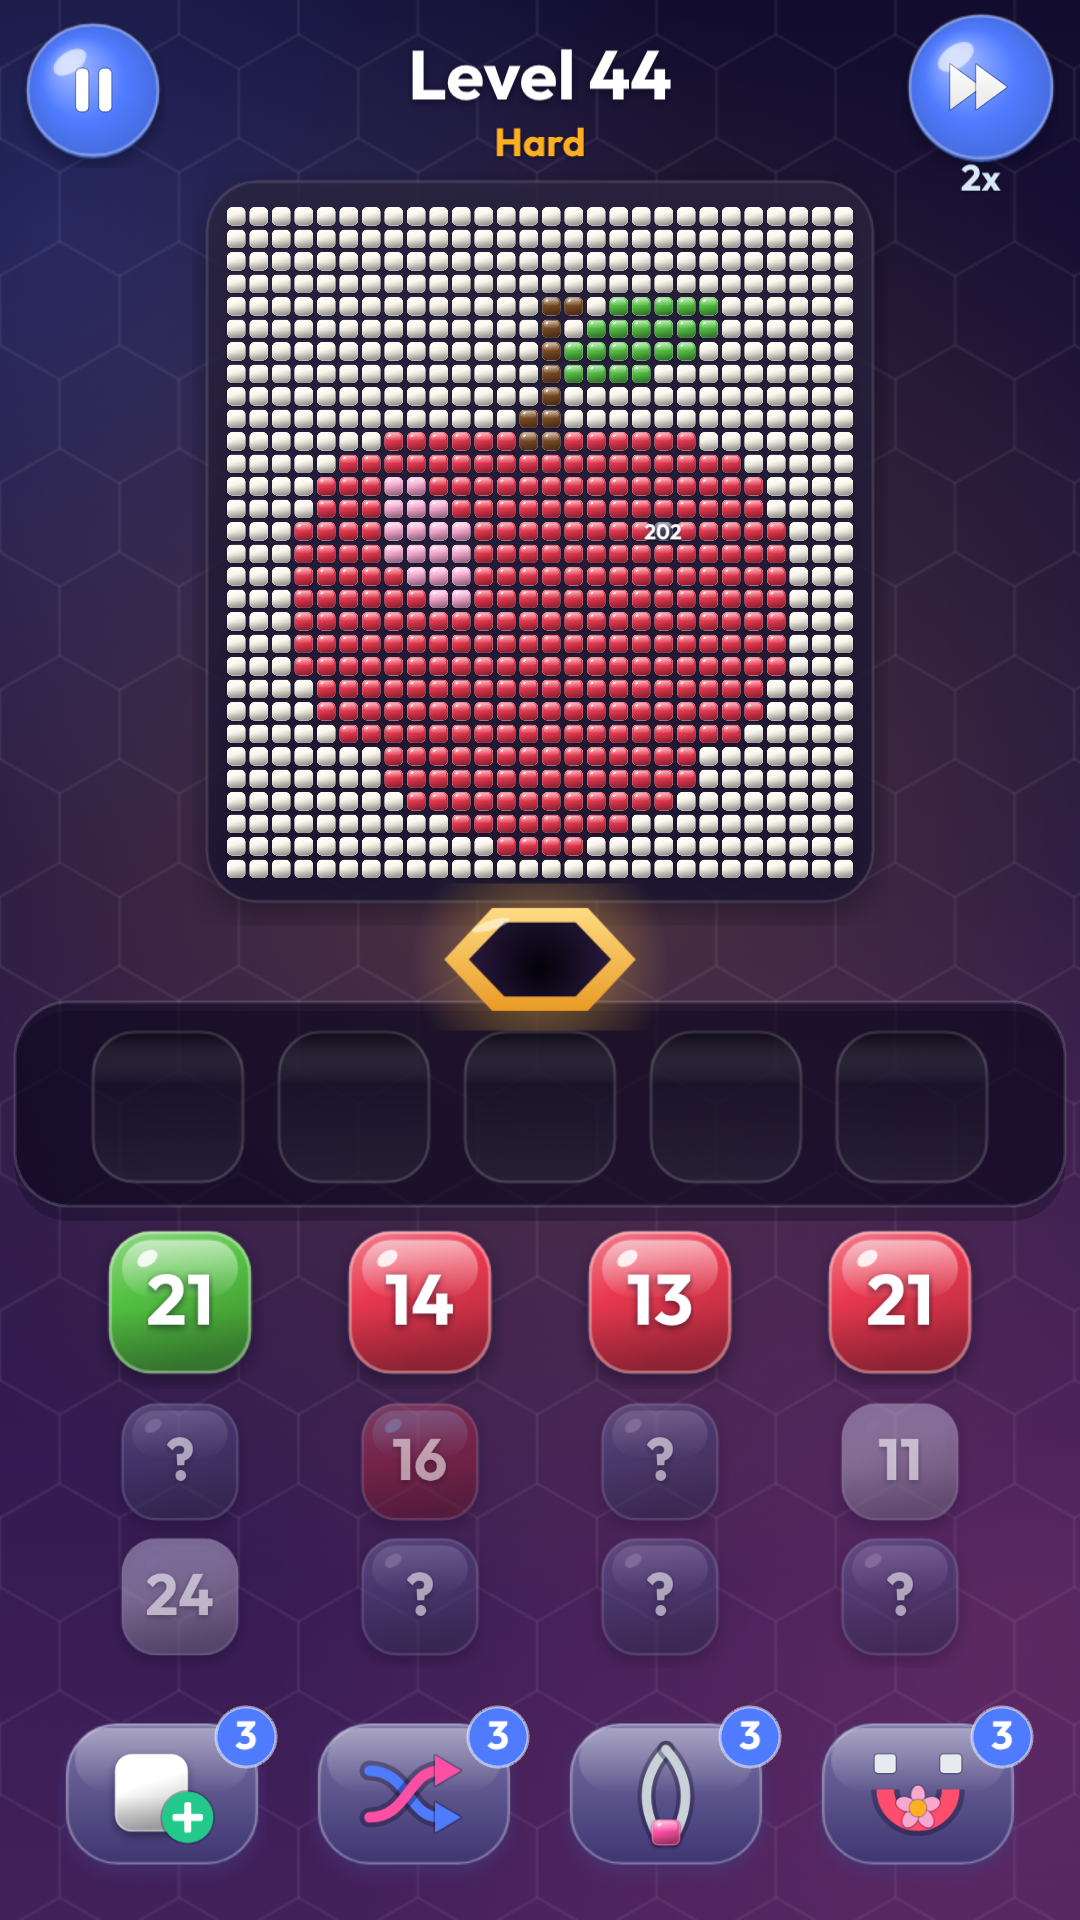
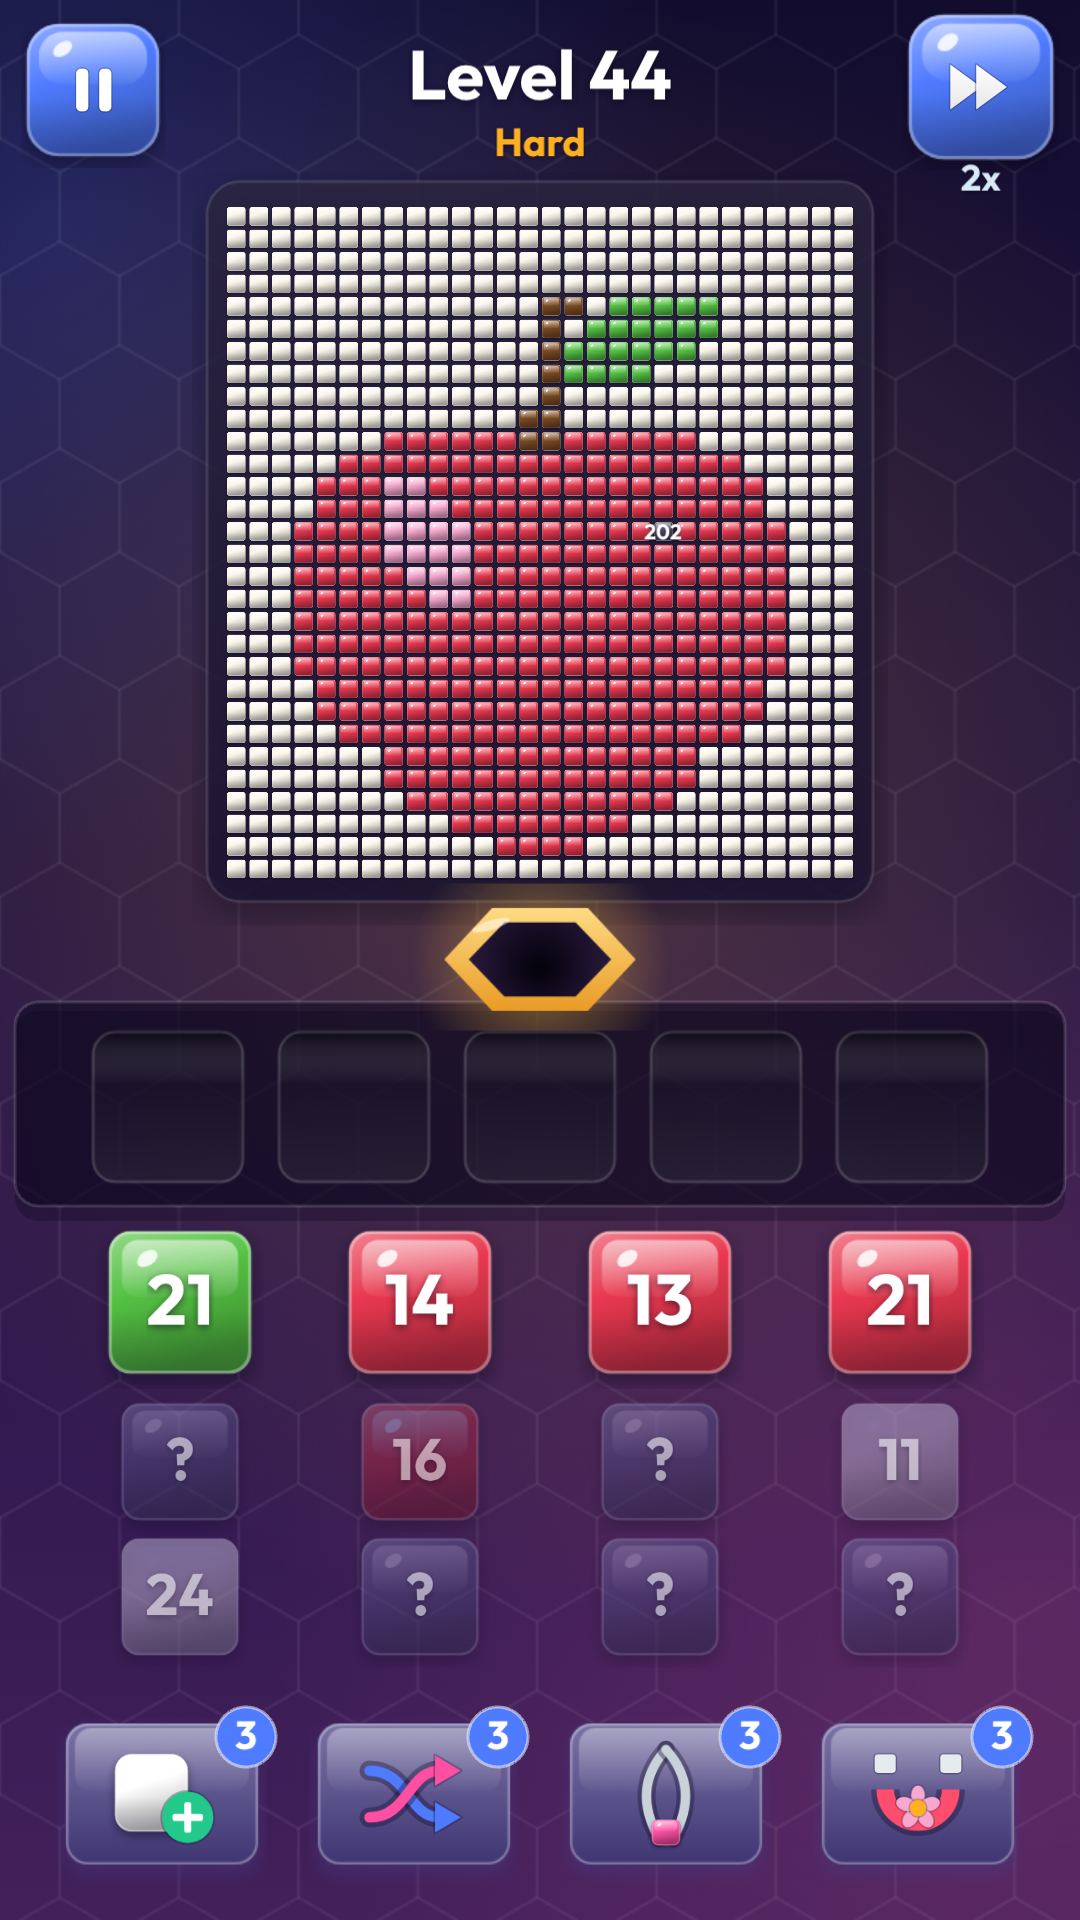
Formas menos arredondadas: cantos mais retos e botões quadrados
Os raios dos cantos passam a estar em RADIUS (src/ui/theme.ts).

Claude-Session: https://claude.ai/code/session_01JFd1FLXgGVWqpw54FQtugt

diff --git a/src/art/textures.ts b/src/art/textures.ts
@@ -3,7 +3,7 @@
 // Estilo: gemas/vidro com brilho, janelas de vidro fosco, sem contornos pretos grossos.
 import Phaser from 'phaser';
 import { PALETTE } from '../core/palette';
-import { THEME } from '../ui/theme';
+import { RADIUS, THEME } from '../ui/theme';
 import { BEE_COLORS, drawBee, type BeeChar } from './bee';
 import { BEE_CHARS, BEE_EXPRS } from './keys';
 import { ellipse, glossyCircle, glossyTile, rgba, rr, shade, star, strokeFill, type Ctx } from './canvas';
@@ -25,8 +25,8 @@ export function buildTextures(scene: Phaser.Scene): void {
   }
   for (const c of PALETTE) {
     // gemas com um pequeno espaço à volta (os blocos ficam separados, como contas de vidro)
-    ensureTexture(scene, `block_${c.id}`, 64, 64, (ctx) => glossyTile(ctx, 5, 4, 54, 54, 15, c.hex));
-    ensureTexture(scene, `piece_${c.id}`, 128, 128, (ctx) => glossyTile(ctx, 10, 8, 108, 108, 32, c.hex));
+    ensureTexture(scene, `block_${c.id}`, 64, 64, (ctx) => glossyTile(ctx, 5, 4, 54, 54, RADIUS.block, c.hex));
+    ensureTexture(scene, `piece_${c.id}`, 128, 128, (ctx) => glossyTile(ctx, 10, 8, 108, 108, RADIUS.piece, c.hex));
     ensureTexture(scene, `bud_${c.id}`, 64, 64, (ctx) => drawBud(ctx, c.hex));
   }
   ensureTexture(scene, 'ic_speed_badge', 128, 128, (ctx) => {
@@ -37,7 +37,7 @@ export function buildTextures(scene: Phaser.Scene): void {
     ctx.restore();
   });
   ensureTexture(scene, 'stone', 64, 64, drawStone);
-  ensureTexture(scene, 'piece_hidden', 128, 128, (ctx) => glossyTile(ctx, 10, 8, 108, 108, 32, '#6E6894'));
+  ensureTexture(scene, 'piece_hidden', 128, 128, (ctx) => glossyTile(ctx, 10, 8, 108, 108, RADIUS.piece, '#6E6894'));
   ensureTexture(scene, 'slot', 120, 120, drawSlot);
   ensureTexture(scene, 'hive_door', 220, 120, drawHiveDoor);
   ensureTexture(scene, 'cloud', 256, 256, drawBokeh);
@@ -78,7 +78,7 @@ export function buildTextures(scene: Phaser.Scene): void {
 
 function drawBud(ctx: Ctx, hex: string): void {
   // flor fechada: botão com pétalas fechadas da cor do bloco, sobre uma gema verde-escura
-  glossyTile(ctx, 5, 4, 54, 54, 15, '#2F6B4F');
+  glossyTile(ctx, 5, 4, 54, 54, RADIUS.block, '#2F6B4F');
   ctx.save();
   ctx.translate(32, 32);
   for (const [rot, sc] of [
@@ -99,7 +99,7 @@ function drawBud(ctx: Ctx, hex: string): void {
 }
 
 function drawStone(ctx: Ctx): void {
-  glossyTile(ctx, 5, 4, 54, 54, 15, '#4A4560');
+  glossyTile(ctx, 5, 4, 54, 54, RADIUS.block, '#4A4560');
   ctx.strokeStyle = 'rgba(255,255,255,0.22)';
   ctx.lineWidth = 1.6;
   ctx.beginPath();
@@ -115,11 +115,11 @@ function drawStone(ctx: Ctx): void {
 
 function drawSlot(ctx: Ctx): void {
   // poço de vidro escuro com sombra interior
-  rr(ctx, 6, 6, 108, 108, 30);
+  rr(ctx, 6, 6, 108, 108, RADIUS.piece);
   ctx.fillStyle = 'rgba(8,4,24,0.45)';
   ctx.fill();
   ctx.save();
-  rr(ctx, 6, 6, 108, 108, 30);
+  rr(ctx, 6, 6, 108, 108, RADIUS.piece);
   ctx.clip();
   const g = ctx.createLinearGradient(0, 6, 0, 114);
   g.addColorStop(0, 'rgba(0,0,0,0.35)');
@@ -128,7 +128,7 @@ function drawSlot(ctx: Ctx): void {
   ctx.fillStyle = g;
   ctx.fillRect(0, 0, 120, 120);
   ctx.restore();
-  rr(ctx, 6.5, 6.5, 107, 107, 30);
+  rr(ctx, 6.5, 6.5, 107, 107, RADIUS.piece);
   ctx.lineWidth = 2;
   ctx.strokeStyle = 'rgba(255,255,255,0.16)';
   ctx.stroke();
@@ -176,10 +176,10 @@ function drawBokeh(ctx: Ctx): void {
   ctx.fillRect(0, 0, 256, 256);
 }
 
-/** Botão em pílula com gradiente, brilho de vidro e sombra colorida suave. */
+/** Botão de cantos suaves com gradiente, brilho de vidro e sombra colorida suave. */
 export function buttonTexture(scene: Phaser.Scene, w: number, h: number, color: string): string {
   return ensureTexture(scene, `btn_${color}_${w}x${h}`, w, h + 10, (ctx) => {
-    const r = Math.min(h / 2, 34);
+    const r = Math.min(h / 2, RADIUS.button);
     ctx.save();
     ctx.shadowColor = rgba(color, 0.55);
     ctx.shadowBlur = 14;
@@ -214,7 +214,7 @@ export function buttonTexture(scene: Phaser.Scene, w: number, h: number, color: 
 /** Janela de vidro fosco escuro. */
 export function panelTexture(scene: Phaser.Scene, w: number, h: number): string {
   return ensureTexture(scene, `panel_${w}x${h}`, w, h, (ctx) => {
-    const r = 44;
+    const r = RADIUS.panel;
     ctx.save();
     ctx.shadowColor = THEME.shadow;
     ctx.shadowBlur = 30;
@@ -249,13 +249,13 @@ export function panelTexture(scene: Phaser.Scene, w: number, h: number): string 
 export function cardTexture(scene: Phaser.Scene, w: number, h: number, color: string = THEME.card): string {
   return ensureTexture(scene, `card_${color}_${w}x${h}`, w, h, (ctx) => {
     const tint = color !== THEME.card;
-    rr(ctx, 2, 2, w - 4, h - 6, 24);
+    rr(ctx, 2, 2, w - 4, h - 6, RADIUS.card);
     const g = ctx.createLinearGradient(0, 0, 0, h);
     g.addColorStop(0, tint ? rgba(color, 0.32) : THEME.cardHi);
     g.addColorStop(1, tint ? rgba(color, 0.14) : THEME.card);
     ctx.fillStyle = g;
     ctx.fill();
-    rr(ctx, 2.75, 2.75, w - 5.5, h - 7.5, 24);
+    rr(ctx, 2.75, 2.75, w - 5.5, h - 7.5, RADIUS.card);
     ctx.lineWidth = 1.5;
     ctx.strokeStyle = tint ? rgba(color, 0.55) : 'rgba(255,255,255,0.12)';
     ctx.stroke();
@@ -269,11 +269,11 @@ export function frameTexture(scene: Phaser.Scene, w: number, h: number): string 
     ctx.shadowColor = THEME.shadow;
     ctx.shadowBlur = 26;
     ctx.shadowOffsetY = 8;
-    rr(ctx, 10, 6, w - 20, h - 22, 34);
+    rr(ctx, 10, 6, w - 20, h - 22, RADIUS.panel);
     ctx.fillStyle = 'rgba(16,10,40,0.75)';
     ctx.fill();
     ctx.restore();
-    rr(ctx, 10, 6, w - 20, h - 22, 34);
+    rr(ctx, 10, 6, w - 20, h - 22, RADIUS.panel);
     const g = ctx.createLinearGradient(0, 0, 0, h);
     g.addColorStop(0, 'rgba(255,255,255,0.09)');
     g.addColorStop(1, 'rgba(255,255,255,0.03)');
@@ -327,10 +327,9 @@ export function backgroundTexture(scene: Phaser.Scene, w: number, h: number): st
 /** Avatar redondo com a cara da Mel. */
 export function avatarTexture(scene: Phaser.Scene): string {
   return ensureTexture(scene, 'avatar_mel', 128, 128, (ctx) => {
-    glossyCircle(ctx, 64, 64, 56, '#3A2F72');
+    glossyTile(ctx, 8, 8, 112, 112, 112 * RADIUS.iconButton, '#3A2F72');
     ctx.save();
-    ctx.beginPath();
-    ctx.arc(64, 64, 53, 0, Math.PI * 2);
+    rr(ctx, 11, 11, 106, 106, 106 * RADIUS.iconButton);
     ctx.clip();
     drawBee(ctx, 64, 84, 112, 'mel', 'happy');
     ctx.restore();

diff --git a/src/ui/widgets.ts b/src/ui/widgets.ts
@@ -6,12 +6,13 @@ import { type BoosterId } from '../meta/config';
 import { livesInfo, type Reward } from '../meta/economy';
 import { Button, COLORS } from './Button';
 import { dur, INK, L, txt } from './core';
+import { RADIUS } from './theme';
 
 function pill(scene: Phaser.Scene, w: number, h: number): Phaser.GameObjects.Graphics {
   const g = scene.add.graphics();
-  // pílula de vidro escuro
-  g.fillStyle(0x07041a, 0.55).fillRoundedRect(-w / 2, -h / 2, w, h, h / 2);
-  g.lineStyle(2, 0xffffff, 0.14).strokeRoundedRect(-w / 2, -h / 2, w, h, h / 2);
+  // caixa de vidro escuro
+  g.fillStyle(0x07041a, 0.55).fillRoundedRect(-w / 2, -h / 2, w, h, RADIUS.chip);
+  g.lineStyle(2, 0xffffff, 0.14).strokeRoundedRect(-w / 2, -h / 2, w, h, RADIUS.chip);
   return g;
 }
 
@@ -113,8 +114,8 @@ export function toast(scene: Phaser.Scene, msg: string, y = L.H * 0.42): void {
   const w = Math.min(660, label.width + 60);
   const h = label.height + 30;
   const g = scene.add.graphics();
-  g.fillStyle(0x1d1740, 0.94).fillRoundedRect(-w / 2, -h / 2, w, h, 24);
-  g.lineStyle(2, 0xffffff, 0.16).strokeRoundedRect(-w / 2, -h / 2, w, h, 24);
+  g.fillStyle(0x1d1740, 0.94).fillRoundedRect(-w / 2, -h / 2, w, h, RADIUS.card);
+  g.lineStyle(2, 0xffffff, 0.16).strokeRoundedRect(-w / 2, -h / 2, w, h, RADIUS.card);
   c.add([g, label]);
   c.setScale(0.6).setAlpha(0);
   scene.tweens.add({ targets: c, scale: 1, alpha: 1, duration: dur(180), ease: 'Back.easeOut' });
@@ -134,8 +135,8 @@ export class ProgressBar extends Phaser.GameObjects.Container {
   ) {
     super(scene, x, y);
     const g = scene.add.graphics();
-    g.fillStyle(0x07041a, 0.6).fillRoundedRect(-bw / 2, -bh / 2, bw, bh, bh / 2);
-    g.lineStyle(2, 0xffffff, 0.12).strokeRoundedRect(-bw / 2, -bh / 2, bw, bh, bh / 2);
+    g.fillStyle(0x07041a, 0.6).fillRoundedRect(-bw / 2, -bh / 2, bw, bh, Math.min(bh / 2, RADIUS.bar));
+    g.lineStyle(2, 0xffffff, 0.12).strokeRoundedRect(-bw / 2, -bh / 2, bw, bh, Math.min(bh / 2, RADIUS.bar));
     this.fill = scene.add.graphics();
     this.add([g, this.fill]);
     scene.add.existing(this);
@@ -145,8 +146,8 @@ export class ProgressBar extends Phaser.GameObjects.Container {
     const w = Math.max(this.bh, this.bw * this.value);
     this.fill.clear();
     if (this.value <= 0) return this;
-    this.fill.fillStyle(this.color, 1).fillRoundedRect(-this.bw / 2, -this.bh / 2, w, this.bh, this.bh / 2);
-    this.fill.fillStyle(0xffffff, 0.35).fillRoundedRect(-this.bw / 2 + 4, -this.bh / 2 + 3, w - 8, this.bh * 0.35, this.bh * 0.17);
+    this.fill.fillStyle(this.color, 1).fillRoundedRect(-this.bw / 2, -this.bh / 2, w, this.bh, Math.min(this.bh / 2, RADIUS.bar));
+    this.fill.fillStyle(0xffffff, 0.35).fillRoundedRect(-this.bw / 2 + 4, -this.bh / 2 + 3, w - 8, this.bh * 0.35, Math.min(this.bh * 0.17, RADIUS.bar / 2));
     return this;
   }
 }

diff --git a/src/scenes/HomeScene.ts b/src/scenes/HomeScene.ts
@@ -24,7 +24,7 @@ import { levelDifficulty, loadLevel } from '../levels';
 import { Button, COLORS, iconButton } from '../ui/Button';
 import { BaseScene, dur, L, txt } from '../ui/core';
 import { pollen } from '../ui/fx';
-import { hex, THEME } from '../ui/theme';
+import { hex, RADIUS, THEME } from '../ui/theme';
 import { hiveView } from '../ui/hive';
 import { closeTopModal, modalOpen } from '../ui/Modal';
 import { badge, CoinCounter, LivesCounter } from '../ui/widgets';
@@ -218,9 +218,9 @@ export class HomeScene extends BaseScene {
     const y = L.H - 92;
     const g = this.add.graphics();
     // barra de vidro escuro
-    g.fillStyle(0x07041a, 0.35).fillRoundedRect(8, y - 72, L.W - 16, 156, 40);
-    g.fillStyle(hex(THEME.panelBottom), 0.92).fillRoundedRect(8, y - 78, L.W - 16, 156, 40);
-    g.lineStyle(2, 0xffffff, 0.14).strokeRoundedRect(8, y - 78, L.W - 16, 156, 40);
+    g.fillStyle(0x07041a, 0.35).fillRoundedRect(8, y - 72, L.W - 16, 156, RADIUS.panel);
+    g.fillStyle(hex(THEME.panelBottom), 0.92).fillRoundedRect(8, y - 78, L.W - 16, 156, RADIUS.panel);
+    g.lineStyle(2, 0xffffff, 0.14).strokeRoundedRect(8, y - 78, L.W - 16, 156, RADIUS.panel);
     const items: [string, string, () => void][] = [
       ['ic_shop', t('home.shop'), () => shopModal(this)],
       ['ic_ranking', t('home.ranking'), () => comingSoonModal(this, t('home.ranking'), 'ic_ranking')],
@@ -233,8 +233,8 @@ export class HomeScene extends BaseScene {
       const home = i === 2;
       if (home) {
         const hl = this.add.graphics();
-        hl.fillStyle(hex(THEME.accent), 0.2).fillRoundedRect(x - 64, y - 68, 128, 136, 30);
-        hl.lineStyle(2, hex(THEME.accent), 0.7).strokeRoundedRect(x - 64, y - 68, 128, 136, 30);
+        hl.fillStyle(hex(THEME.accent), 0.2).fillRoundedRect(x - 64, y - 68, 128, 136, RADIUS.card);
+        hl.lineStyle(2, hex(THEME.accent), 0.7).strokeRoundedRect(x - 64, y - 68, 128, 136, RADIUS.card);
       }
       const ic = this.add.image(x, y - 14 - (home ? 8 : 0), icon).setDisplaySize(home ? 92 : 76, home ? 92 : 76);
       ic.setInteractive({ useHandCursor: true }).on('pointerdown', () => {

diff --git a/src/scenes/GameScene.ts b/src/scenes/GameScene.ts
@@ -18,7 +18,7 @@ import { Button, COLORS, iconButton } from '../ui/Button';
 import { BaseScene, dur, INK, L, txt } from '../ui/core';
 import { burst, confetti, flash, tutorialHand } from '../ui/fx';
 import { closeTopModal, modalOpen } from '../ui/Modal';
-import { hex, THEME } from '../ui/theme';
+import { hex, RADIUS, THEME } from '../ui/theme';
 import { badge, toast } from '../ui/widgets';
 import {
   boosterBuyModal,
@@ -291,9 +291,9 @@ export class GameScene extends BaseScene {
   private buildTray(): void {
     const g = this.add.graphics().setDepth(20);
     // bandeja de vidro escuro
-    g.fillStyle(0x07041a, 0.3).fillRoundedRect(10, this.trayY - 64, L.W - 20, 140, 36);
-    g.fillStyle(0x07041a, 0.5).fillRoundedRect(10, this.trayY - 70, L.W - 20, 136, 36);
-    g.lineStyle(2, 0xffffff, 0.14).strokeRoundedRect(10, this.trayY - 70, L.W - 20, 136, 36);
+    g.fillStyle(0x07041a, 0.3).fillRoundedRect(10, this.trayY - 64, L.W - 20, 140, RADIUS.tray);
+    g.fillStyle(0x07041a, 0.5).fillRoundedRect(10, this.trayY - 70, L.W - 20, 136, RADIUS.tray);
+    g.lineStyle(2, 0xffffff, 0.14).strokeRoundedRect(10, this.trayY - 70, L.W - 20, 136, RADIUS.tray);
     this.layoutSlots(false);
   }
 
@@ -878,8 +878,8 @@ export class GameScene extends BaseScene {
     const c = this.add.container(L.W / 2, this.boostersY - 110).setDepth(300);
     const w = Math.min(690, colors.length * 86 + 40);
     const g = this.add.graphics();
-    g.fillStyle(hex(THEME.panelBottom), 0.96).fillRoundedRect(-w / 2, -70, w, 140, 30);
-    g.lineStyle(2, 0xffffff, 0.16).strokeRoundedRect(-w / 2, -70, w, 140, 30);
+    g.fillStyle(hex(THEME.panelBottom), 0.96).fillRoundedRect(-w / 2, -70, w, 140, RADIUS.panel);
+    g.lineStyle(2, 0xffffff, 0.16).strokeRoundedRect(-w / 2, -70, w, 140, RADIUS.panel);
     c.add(g);
     c.add(txt(this, 0, -48, t('game.pickColor'), 26));
     colors.forEach((col, i) => {

diff --git a/src/ui/Button.ts b/src/ui/Button.ts
@@ -1,9 +1,10 @@
-// Botões em pílula com brilho que "afundam" ao tocar (squash & stretch) e respondem logo no toque.
+// Botões de cantos suaves com brilho que "afundam" ao tocar (squash & stretch) e respondem logo no toque.
 import Phaser from 'phaser';
 import { app } from '../app';
-import { glossyCircle } from '../art/canvas';
+import { glossyTile } from '../art/canvas';
 import { buttonTexture, ensureTexture } from '../art/textures';
 import { dur, txt } from './core';
+import { RADIUS } from './theme';
 
 export const COLORS = {
   green: '#22C98A',
@@ -112,10 +113,11 @@ export class Button extends Phaser.GameObjects.Container {
 }
 
 export function roundTexture(scene: Phaser.Scene, d: number, color: string): string {
-  return ensureTexture(scene, `round_${color}_${d}`, d + 8, d + 12, (ctx) => glossyCircle(ctx, (d + 8) / 2, (d + 8) / 2, d / 2, color));
+  // quadrado de cantos suaves (menos "redondinho")
+  return ensureTexture(scene, `round_${color}_${d}`, d + 8, d + 12, (ctx) => glossyTile(ctx, 4, 4, d, d, d * RADIUS.iconButton, color));
 }
 
-/** Botão redondo pequeno com ícone (pausa, definições, fechar, info). */
+/** Botão quadrado pequeno com ícone (pausa, definições, fechar, info). */
 export function iconButton(scene: Phaser.Scene, x: number, y: number, icon: string, color: string, onClick: () => void, d = 84): Button {
   return new Button(scene, x, y, { round: true, w: d, color, icon, iconSize: d * 0.58, onClick });
 }

diff --git a/src/scenes/eventModals.ts b/src/scenes/eventModals.ts
@@ -40,7 +40,7 @@ import {
 } from '../meta/events';
 import { Button, COLORS, iconButton } from '../ui/Button';
 import { INK, L, txt } from '../ui/core';
-import { hex, THEME } from '../ui/theme';
+import { hex, RADIUS, THEME } from '../ui/theme';
 import { hiveView } from '../ui/hive';
 import { Modal } from '../ui/Modal';
 import { ProgressBar, rewardRow, ScrollArea, toast } from '../ui/widgets';
@@ -313,8 +313,8 @@ export function raceModal(scene: Phaser.Scene, onChange?: () => void): void {
   lanes.forEach((ln, i) => {
     const y = -300 + i * 120;
     const g = scene.add.graphics();
-    g.fillStyle(i === 0 ? hex(THEME.accent) : 0xffffff, i === 0 ? 0.16 : 0.06).fillRoundedRect(-300, y - 50, 600, 100, 24);
-    g.lineStyle(2, i === 0 ? hex(THEME.accent) : 0xffffff, i === 0 ? 0.6 : 0.14).strokeRoundedRect(-300, y - 50, 600, 100, 24);
+    g.fillStyle(i === 0 ? hex(THEME.accent) : 0xffffff, i === 0 ? 0.16 : 0.06).fillRoundedRect(-300, y - 50, 600, 100, RADIUS.card);
+    g.lineStyle(2, i === 0 ? hex(THEME.accent) : 0xffffff, i === 0 ? 0.6 : 0.14).strokeRoundedRect(-300, y - 50, 600, 100, RADIUS.card);
     m.addContent(g);
     m.addContent(scene.add.image(-250, y, ln.tex).setDisplaySize(80, 80));
     m.addContent(txt(scene, -200, y - 26, ln.name, 22, { origin: [0, 0.5], color: INK, stroke: false }));

diff --git a/src/ui/fx.ts b/src/ui/fx.ts
@@ -2,7 +2,7 @@
 import Phaser from 'phaser';
 import { app } from '../app';
 import { dur, L } from './core';
-import { FONT } from './theme';
+import { FONT, RADIUS } from './theme';
 
 const CONFETTI_TINTS = [0xff4fa3, 0x4f7bff, 0x22c98a, 0xffb020, 0x8b5cf6, 0x14c8b4, 0xffffff];
 
@@ -120,7 +120,7 @@ export function tutorialHand(scene: Phaser.Scene, x: number, y: number, hole: { 
   dim.fillRect(0, hole.y + hole.h / 2, L.W, L.H - (hole.y + hole.h / 2));
   dim.fillRect(0, hole.y - hole.h / 2, hole.x - hole.w / 2, hole.h);
   dim.fillRect(hole.x + hole.w / 2, hole.y - hole.h / 2, L.W - (hole.x + hole.w / 2), hole.h);
-  dim.lineStyle(6, 0xffffff, 0.9).strokeRoundedRect(hole.x - hole.w / 2, hole.y - hole.h / 2, hole.w, hole.h, 20);
+  dim.lineStyle(6, 0xffffff, 0.9).strokeRoundedRect(hole.x - hole.w / 2, hole.y - hole.h / 2, hole.w, hole.h, RADIUS.card);
   items.push(dim);
   const hand = scene.add.image(x + 40, y + 50, 'ic_hand').setDisplaySize(110, 110).setDepth(2002);
   scene.tweens.add({ targets: hand, x: x + 20, y: y + 30, duration: 520, yoyo: true, repeat: -1, ease: 'Sine.easeInOut' });

diff --git a/src/ui/theme.ts b/src/ui/theme.ts
@@ -30,3 +30,16 @@ export const FONT = '"Outfit", system-ui, sans-serif';
 export function hex(c: string): number {
   return parseInt(c.slice(1, 7), 16);
 }
+
+/** Raio dos cantos (unidades do jogo). Valores baixos = visual mais reto e moderno. */
+export const RADIUS = {
+  block: 7,
+  piece: 16,
+  button: 14,
+  iconButton: 0.24,
+  panel: 22,
+  card: 12,
+  tray: 16,
+  bar: 6,
+  chip: 10,
+} as const;

diff --git a/docs/DECISOES.md b/docs/DECISOES.md
@@ -25,7 +25,9 @@ A especificação deixa algumas coisas em aberto. Tomei estas decisões para nã
   foram atualizados.
 - As abelhas mantêm a personalidade, mas com traço fino e asas de vidro.
 - Ícone, splash e imagens da loja foram gerados de novo no mesmo estilo.
-- Cores e letra ficam num só sítio (`src/ui/theme.ts`), por isso mudar o visual outra vez é fácil.
+- Depois, a pedido da Jp, as formas ficaram **menos arredondadas**: cantos mais retos em blocos, peças, botões,
+  janelas e cartões; os botões redondos passaram a quadrados de cantos suaves.
+- Cores, letra e raios dos cantos ficam num só sítio (`src/ui/theme.ts`, `RADIUS`), por isso mudar o visual outra vez é fácil.
 - A lógica do jogo e os níveis não mudaram.
 
 ## Economia e preços (inventados por mim - confirma)
